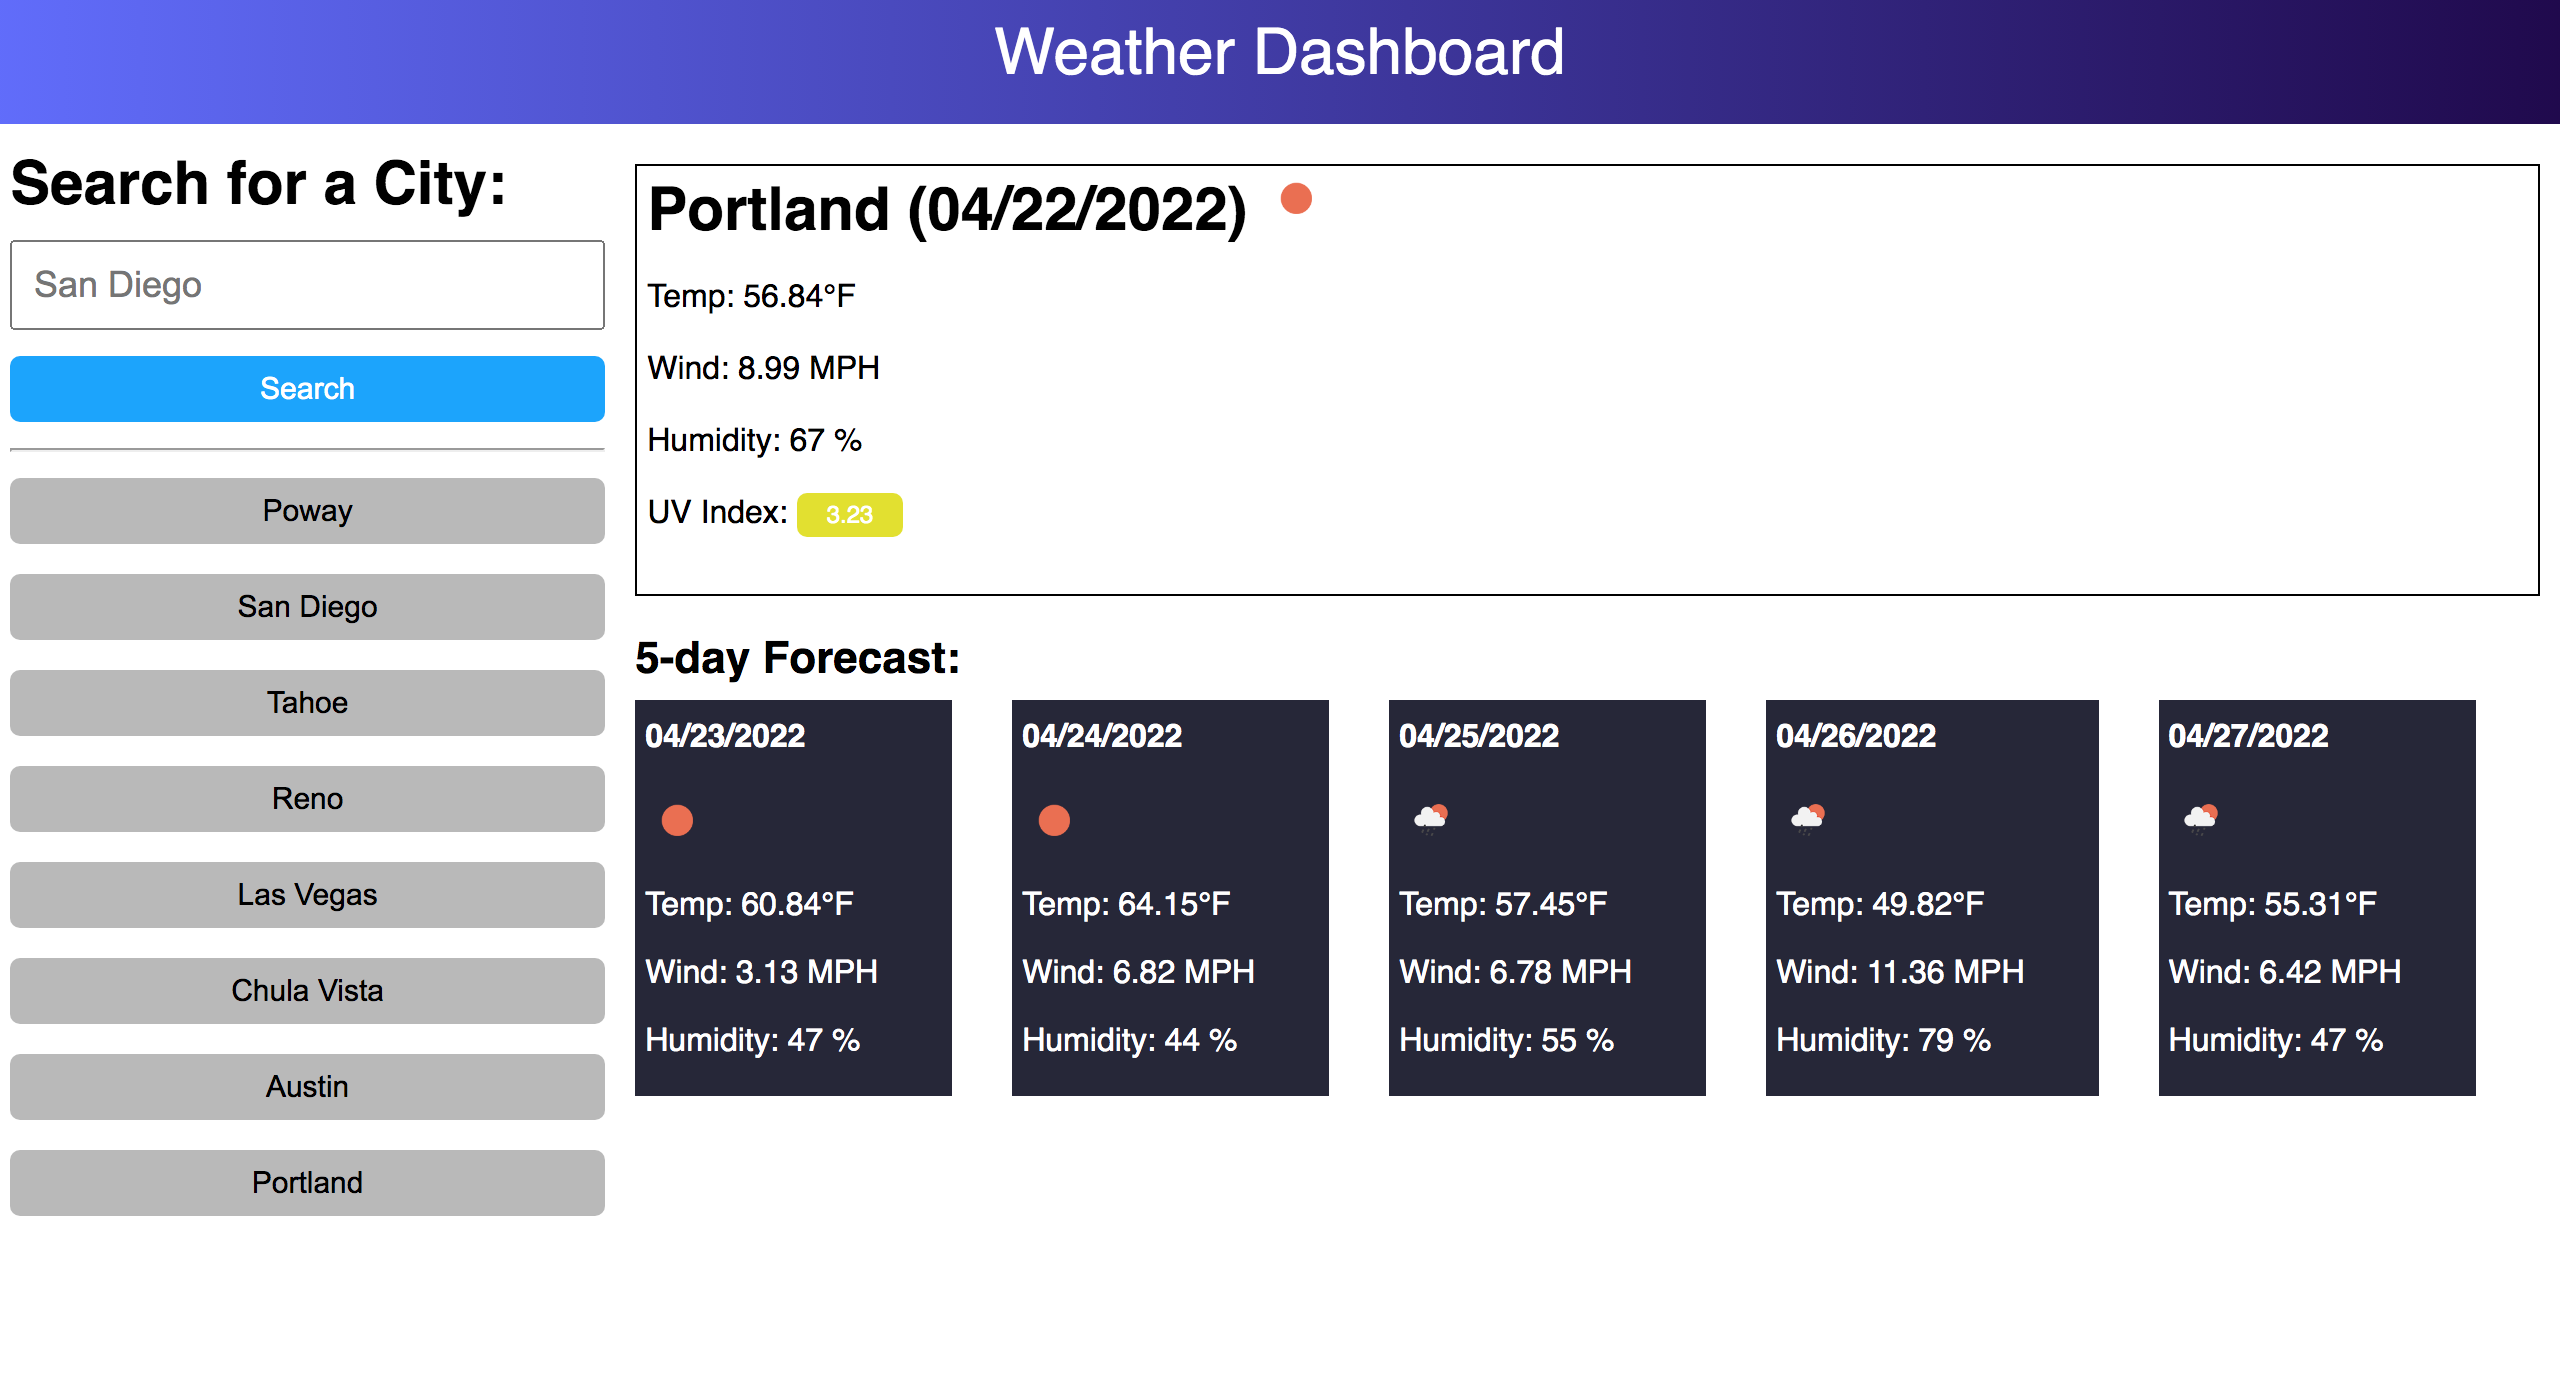
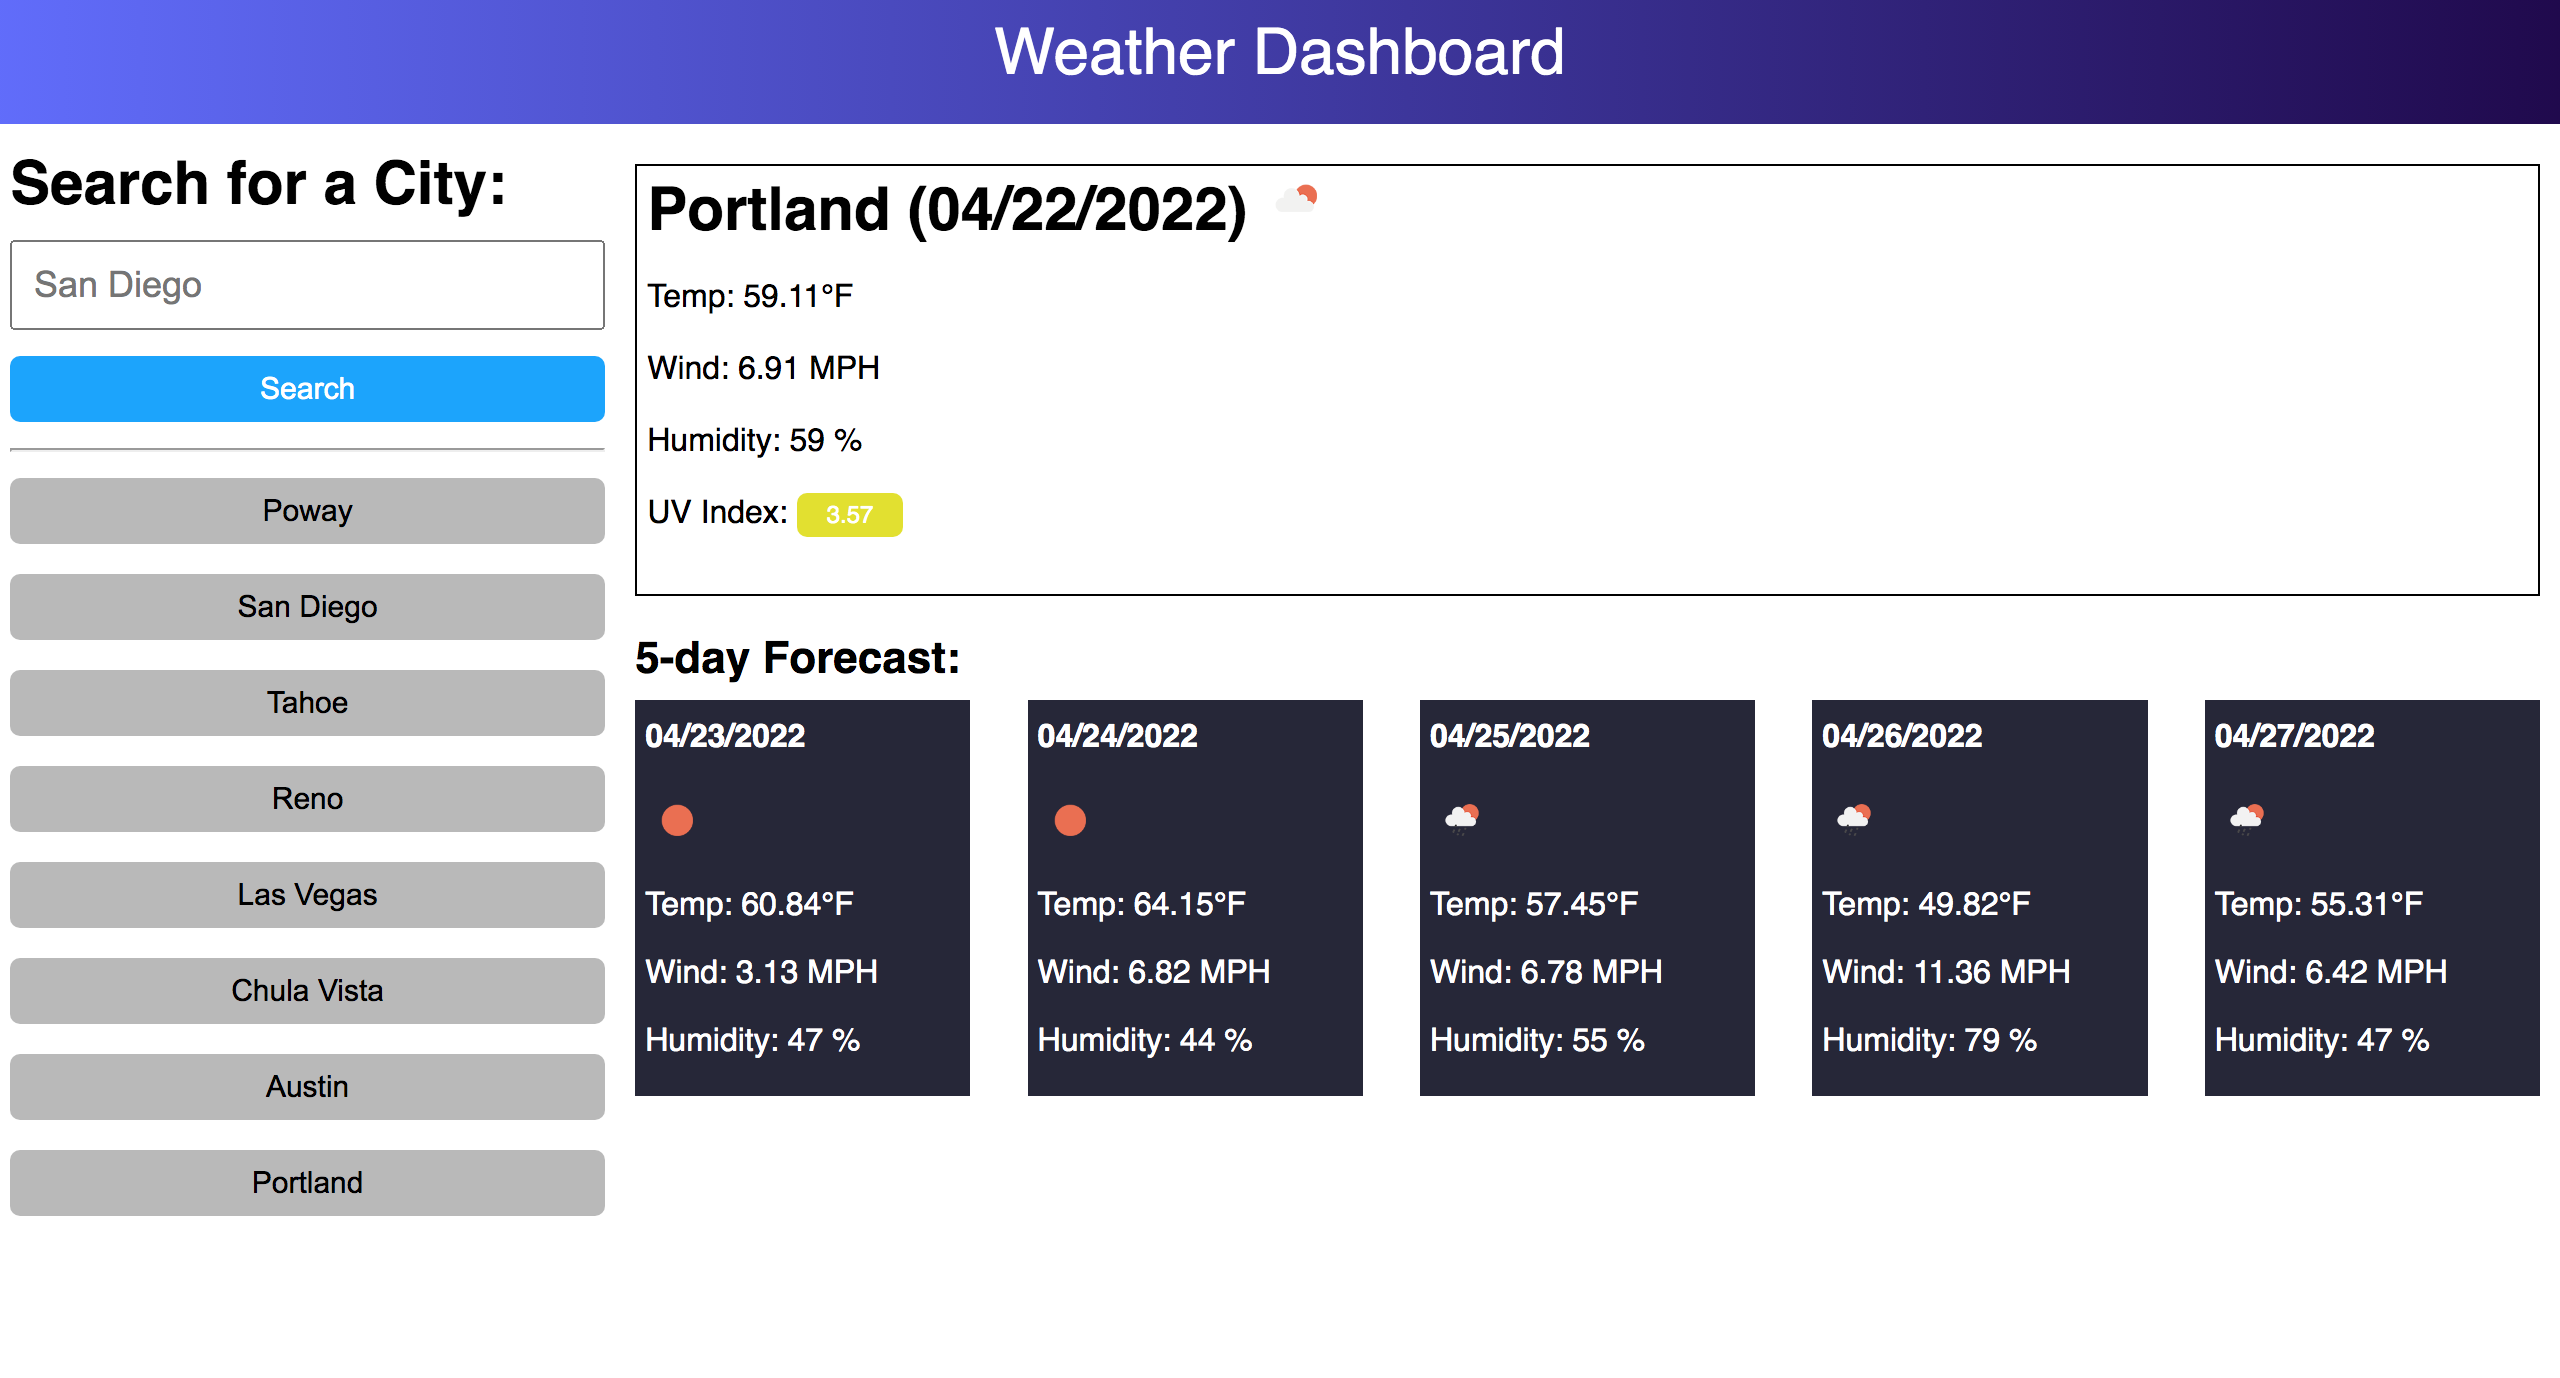
improved spacing on forecast

diff --git a/assets/css/style.css b/assets/css/style.css
@@ -69,7 +69,7 @@ button {
     display: flex;
     flex-direction: column;
     width: 80%;
-    margin: 10px;
+    margin: 7px 15px 10px 10px;
 }
 
 #current {
@@ -95,17 +95,18 @@ button {
 
 #forecastWrap {
     display: flex;
-    gap: 30px;
+    gap: 3%;
     margin-top: 10px;
 }
 
 .forecastDay {
     background-color: rgb(38, 39, 56);
     color: white;
+    width: 17.6%;
     padding: 10px 37px 20px 5px;
     display: flex;
     flex-direction: column;
-    gap: 18px;
+    gap: 19px;
 }
 
 #uvNumber {
